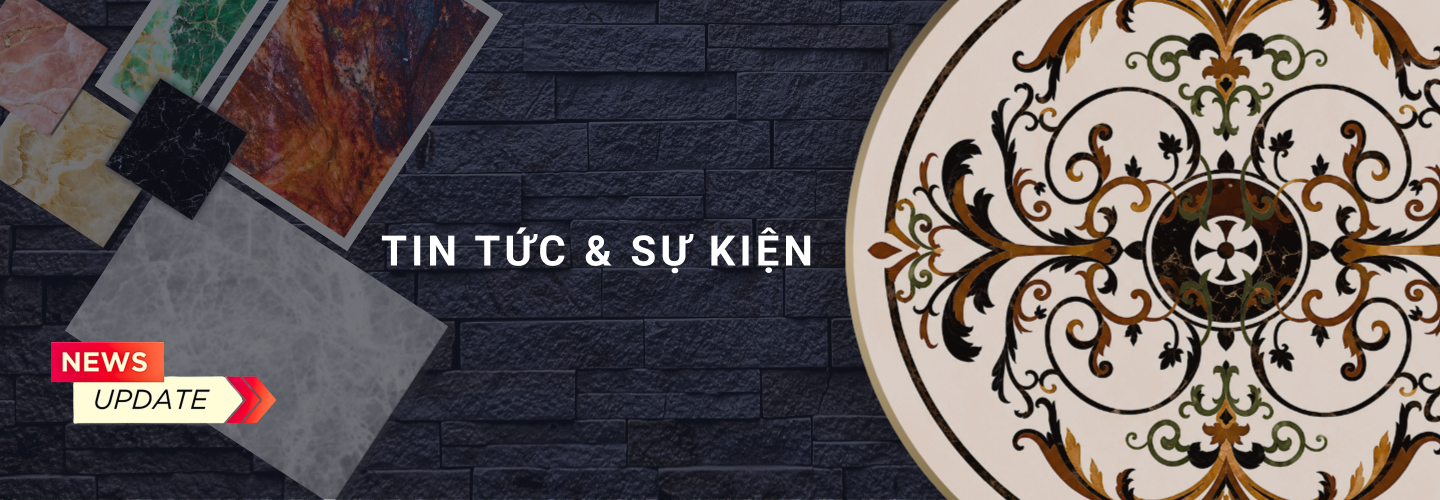
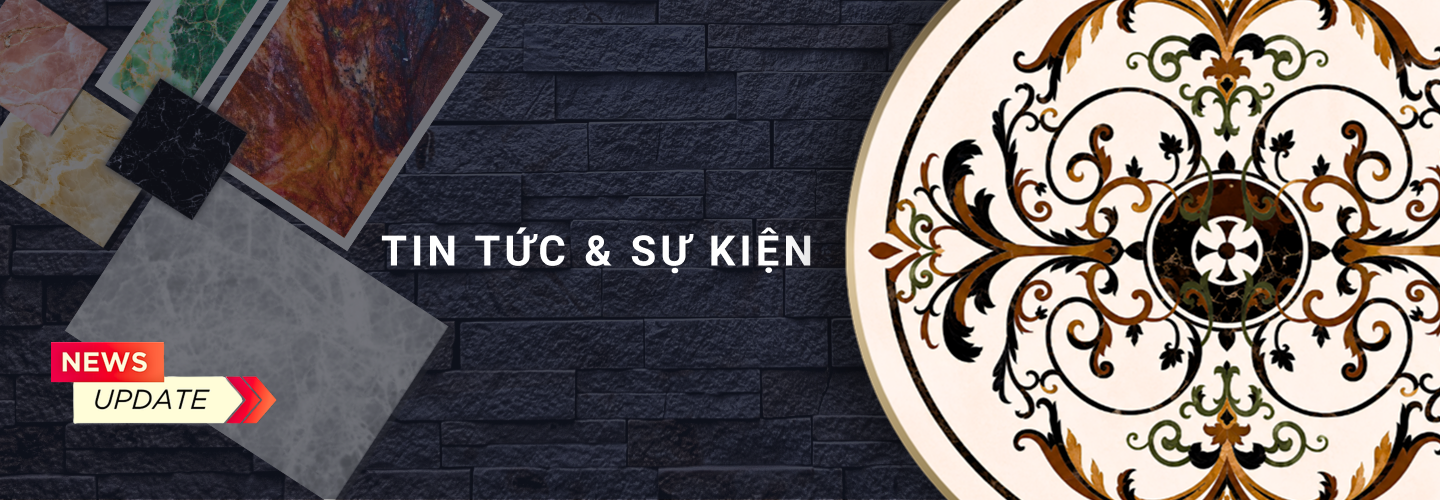
feat: update product 11

Changed region(s): [[0.5625, 0.0, 1.0, 1.0]]

diff --git a/src/components/site/Products.tsx b/src/components/site/Products.tsx
@@ -48,7 +48,7 @@ export async function Products({ locale }: { locale: Locale }) {
             const margin = product.styleConfig?.card?.margin;
             const marginTop = getMarginTop(margin);
             const imageHeight = product.styleConfig?.image?.height || "180px";
-            const computedHeight = margin
+            const computedHeight = margin 
               ? `calc(${imageHeight} + ${marginTop})`
               : imageHeight;
 
@@ -72,7 +72,7 @@ export async function Products({ locale }: { locale: Locale }) {
                             style={{
                               padding: margin || "0px",
                               width: product.styleConfig?.image?.width || "100%",
-                              height: computedHeight,
+                              height: computedHeight || "180px",
                               objectFit: product.styleConfig?.image?.objectFit || "cover",
                             }}
                           />
@@ -88,7 +88,12 @@ export async function Products({ locale }: { locale: Locale }) {
                           </div>
                         </div>
 
-                        <h4 className="product__item__title">
+                        <h4 className="product__item__title" style={{
+                          display: "-webkit-box",
+                          WebkitLineClamp: 2,
+                          WebkitBoxOrient: "vertical",
+                          overflow: "hidden",
+                        }}>
                           <Link href={productHref(locale, product.slug)}>
                             {product.title}
                           </Link>
@@ -126,9 +131,10 @@ export async function Products({ locale }: { locale: Locale }) {
                             src={product.image}
                             alt={product.title}
                             style={{
-                              height: "180px",
+                              padding: margin || "0px",
+                              aspectRatio: "4/3",
                               width: "100%",
-                              objectFit: "contain",
+                              objectFit: product.styleConfig?.image?.objectFit || "cover",
                             }}
                           />
                         </Link>
